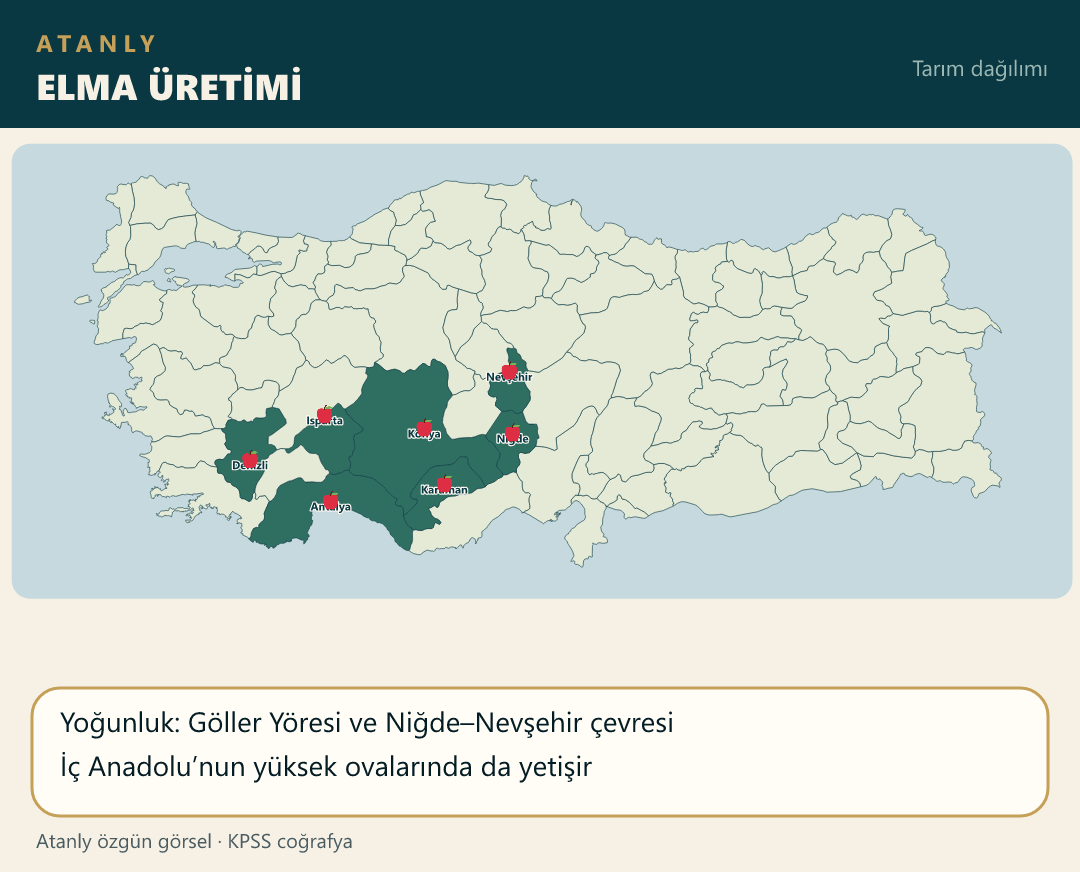
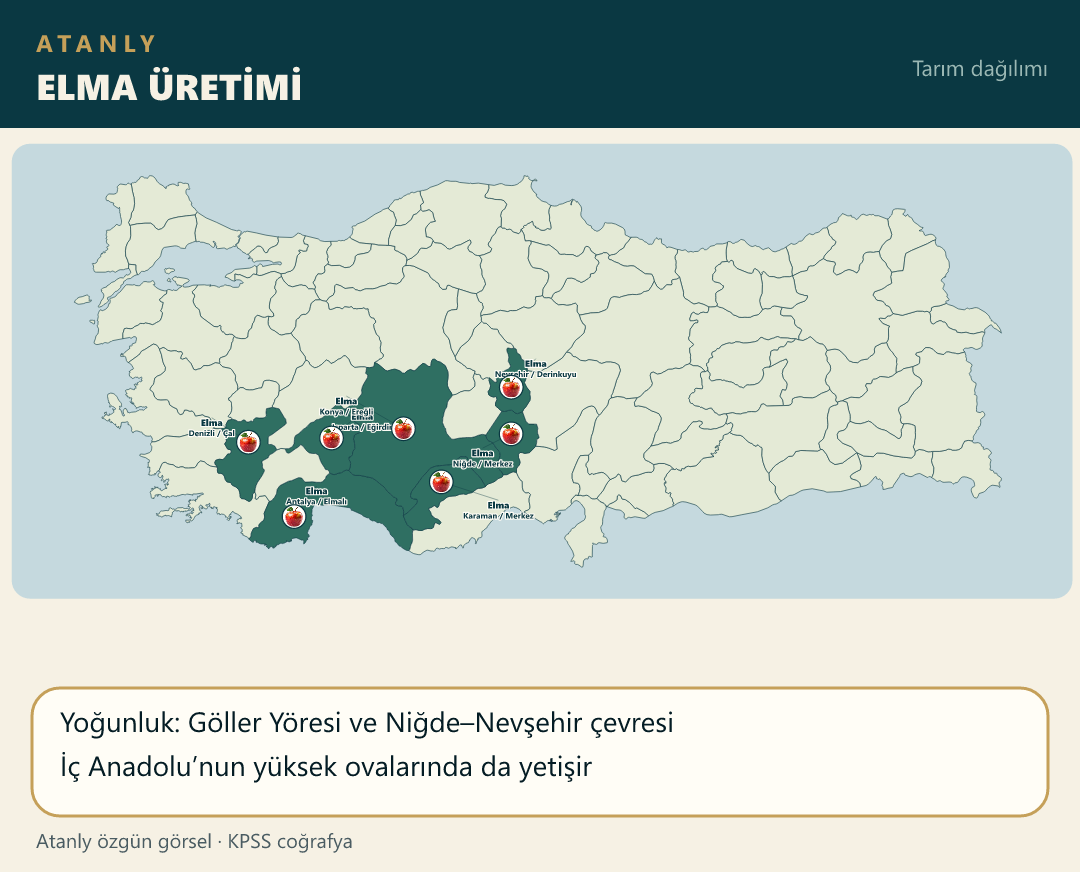
Place the apple photo on Lakes Region and plateau provinces.

diff --git a/scripts/build-atanly-maps.js b/scripts/build-atanly-maps.js
@@ -428,7 +428,7 @@ var iconCache = {};
 function topicIcon(file) {
     var k = norm(String(file || "").replace(/\.(png|jpg)$/i, ""));
     var T = {
-        gul: "rose", elma: "apple", bugday: "bugday", pamuk: "cotton", zeytin: "olive",
+        gul: "rose", elma: "elma", bugday: "bugday", pamuk: "cotton", zeytin: "olive",
         uzum: "grapes", misir: "corn", patates: "potato", arpa: "arpa", sekerpancar: "beet",
         hashas: "poppy", incir: "fig", kayisi: "apricot", muz: "banana", anason: "anason",
         aspir: "aspir", susam: "seed", tutun: "leaf", yerfistik: "peanut", antepfistik: "antepfistik",
@@ -530,7 +530,17 @@ function main() {
     if (provs.length < 70) throw new Error("il parse hatası " + provs.length);
 
     var crops = [
-        { file: "elma.png", title: "ELMA ÜRETİMİ", iller: ["Isparta", "Karaman", "Niğde", "Nevşehir", "Konya", "Denizli", "Antalya"], facts: ["Yoğunluk: Göller Yöresi ve Niğde–Nevşehir çevresi", "İç Anadolu’nun yüksek ovalarında da yetişir"] },
+        { file: "elma.png", title: "ELMA ÜRETİMİ", urun: "Elma",
+            noktalar: [
+                { il: "Isparta", ilce: "Eğirdir", ldx: 30, ldy: -18 },
+                { il: "Karaman", ilce: "Merkez" },
+                { il: "Niğde", ilce: "Merkez", ldx: -28, ldy: 22 },
+                { il: "Nevşehir", ilce: "Derinkuyu", ldx: 24, ldy: -20 },
+                { il: "Konya", ilce: "Ereğli" },
+                { il: "Denizli", ilce: "Çal", ldx: -36, ldy: -16 },
+                { il: "Antalya", ilce: "Elmalı", ldx: 22, ldy: -22 }
+            ],
+            facts: ["Yoğunluk: Göller Yöresi ve Niğde–Nevşehir çevresi", "İç Anadolu’nun yüksek ovalarında da yetişir"] },
         { file: "bugday.png", title: "BUĞDAY ÜRETİMİ", urun: "Buğday",
             noktalar: [
                 { il: "Konya", ilce: "Cihanbeyli" },

diff --git a/notlar/cografya-19-not.js b/notlar/cografya-19-not.js
@@ -2,7 +2,7 @@
 (function () {
     function harita(src, alt) {
         return '<div class="mt-4 overflow-hidden rounded-xl border border-blue-200 dark:border-blue-700/50 bg-white dark:bg-slate-800 p-2">' +
-            '<img src="./src/img/' + src + '?v=19" alt="' + alt + ' Haritası" class="w-full h-auto rounded-lg object-contain" loading="lazy">' +
+            '<img src="./src/img/' + src + '?v=20" alt="' + alt + ' Haritası" class="w-full h-auto rounded-lg object-contain" loading="lazy">' +
             "</div>";
     }
 

diff --git a/index.html b/index.html
@@ -117,7 +117,7 @@
     <script src="notlar/cografya-16-not.js?v=3"></script>
     <script src="notlar/cografya-17-not.js?v=3"></script>
     <script src="notlar/cografya-18-not.js?v=12"></script>
-    <script src="notlar/cografya-19-not.js?v=15"></script>
+    <script src="notlar/cografya-19-not.js?v=16"></script>
     <script src="notlar/cografya-20-not.js?v=1"></script>
     <script src="notlar/cografya-21-not.js?v=4"></script>
     <script src="notlar/vatandas-1-not.js?v=3"></script>
